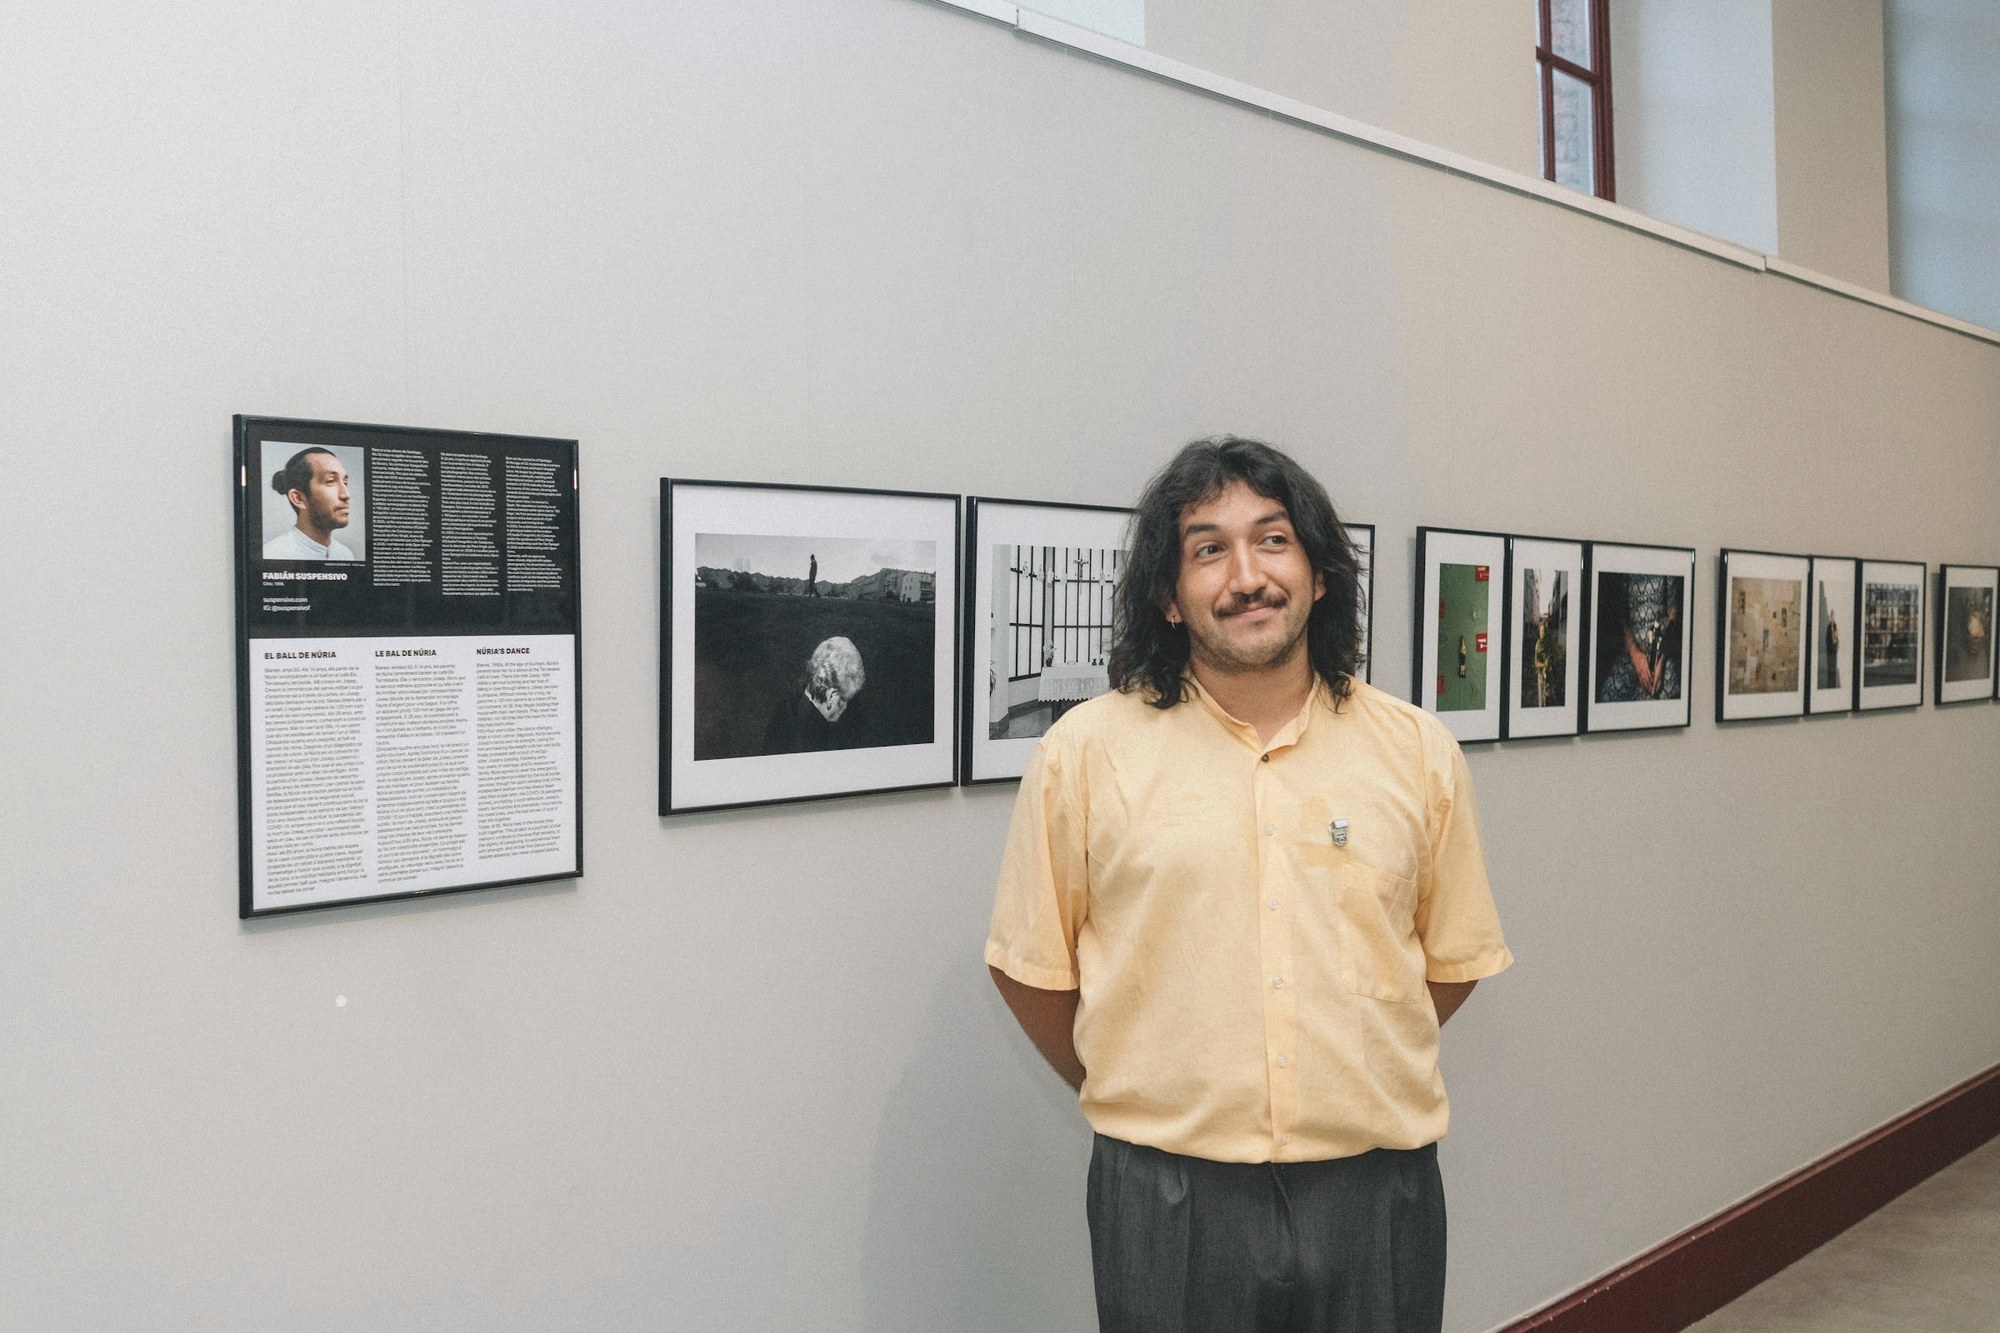
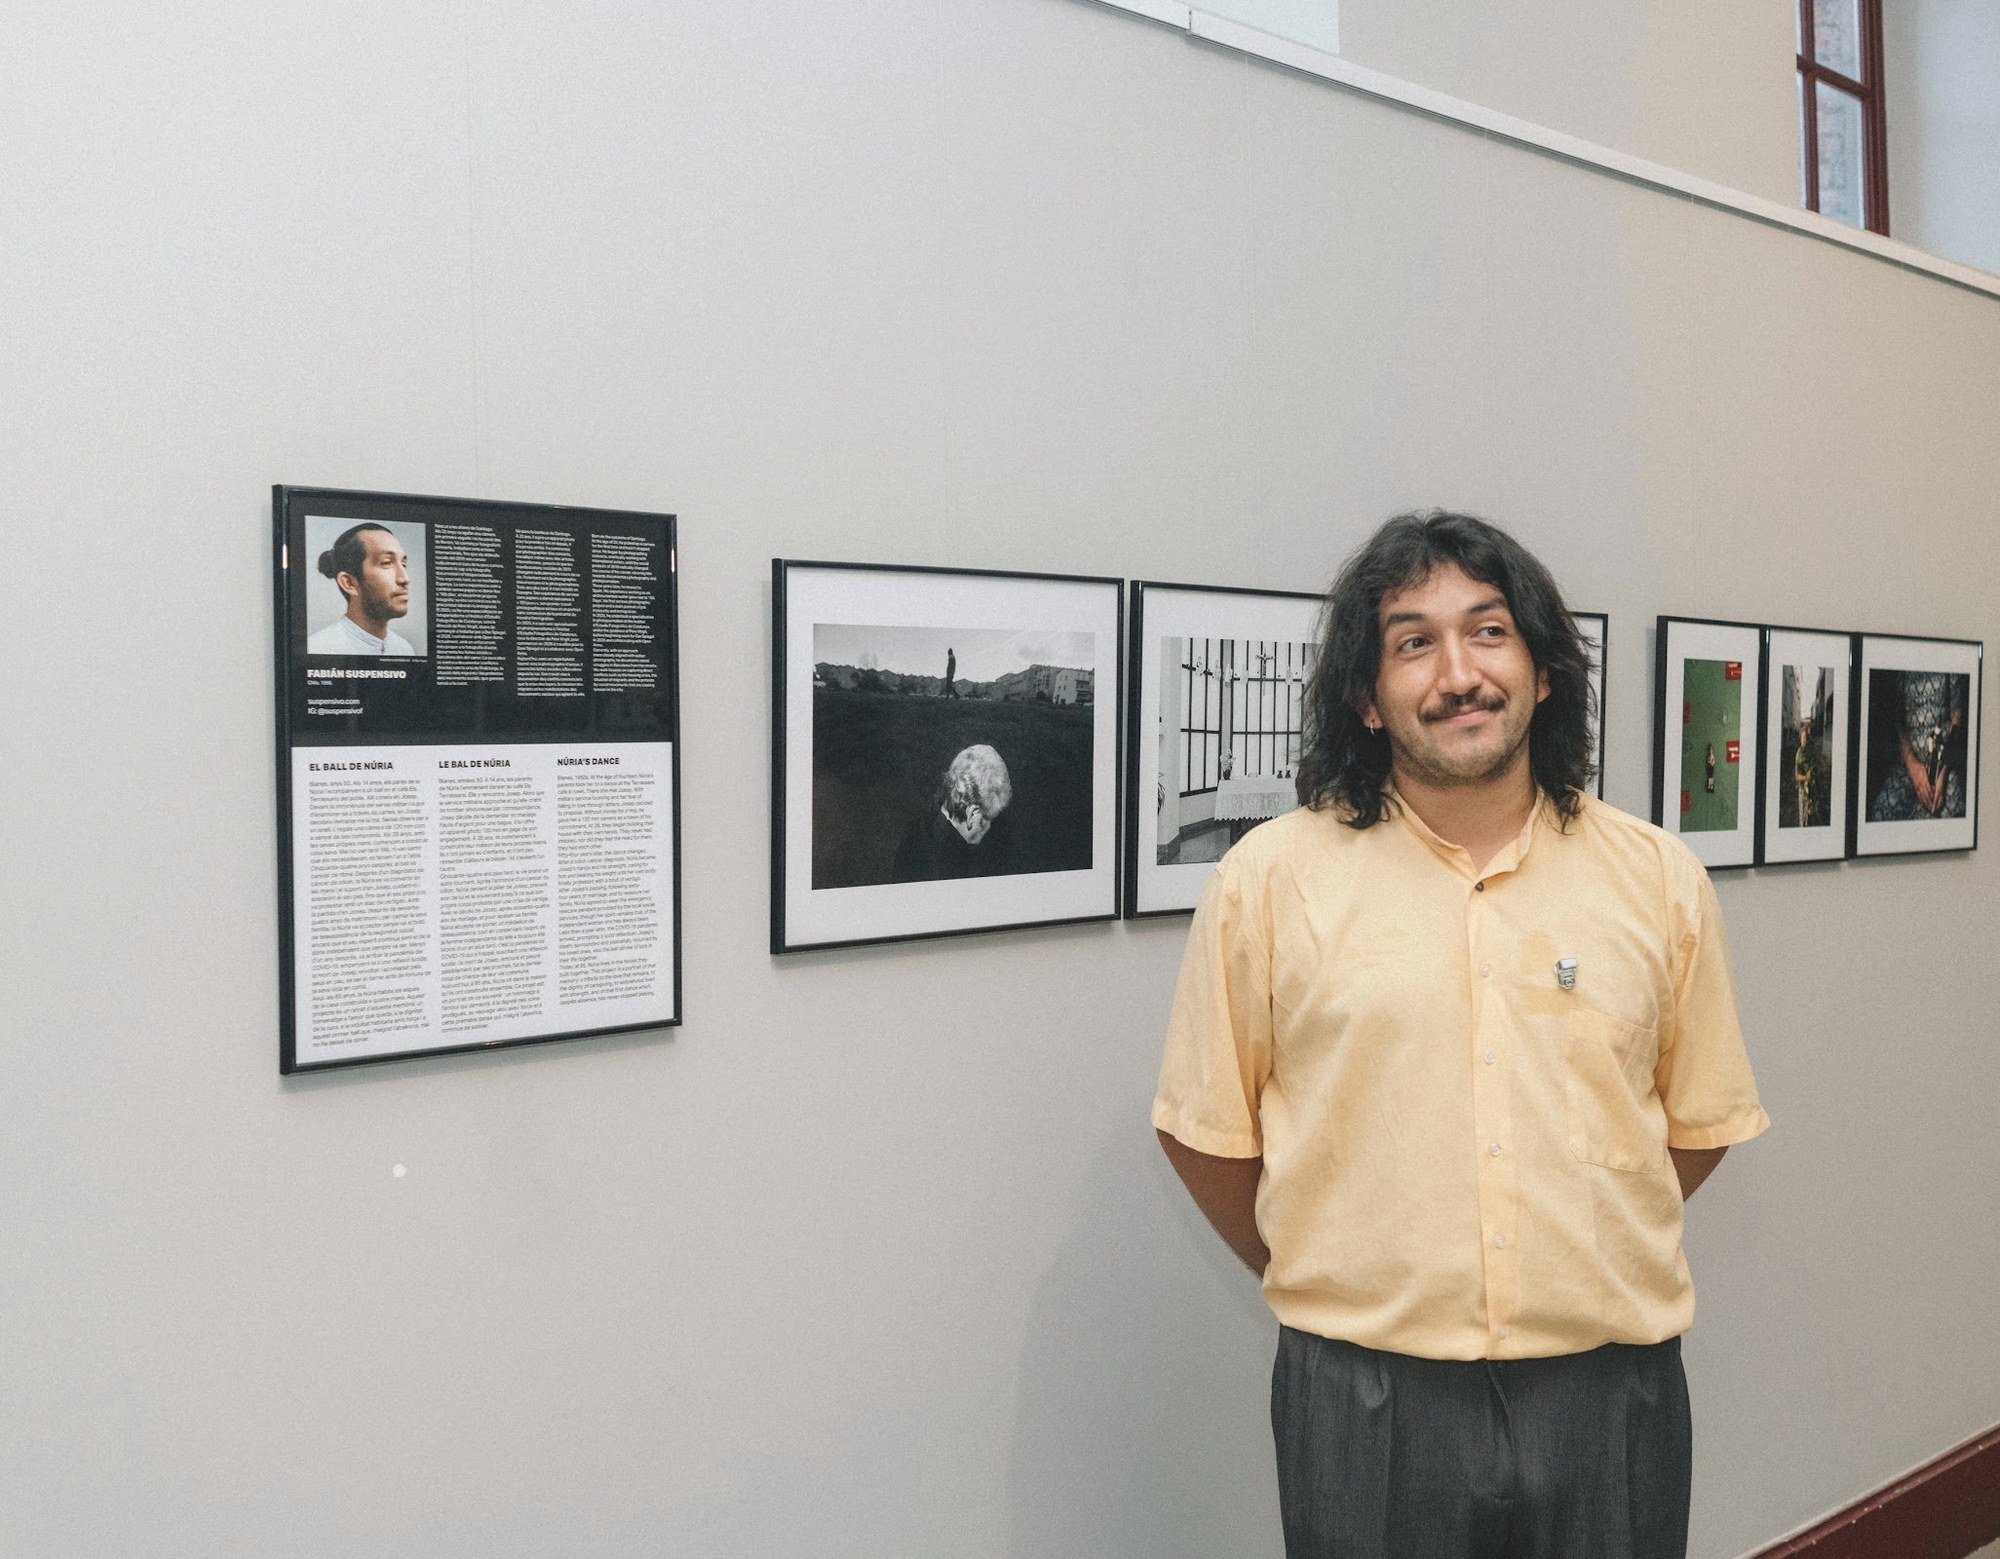
recorta las dos fotos donde entraba medio cuadro por el borde

diff --git a/src/data/galeria.ts b/src/data/galeria.ts
@@ -41,8 +41,8 @@ export const series: Serie[] = [
       { src: '/fotos/ball-de-nuria-expo-01.jpg', w: 2000, h: 1333, expo: true },
       { src: '/fotos/ball-de-nuria-expo-02.jpg', w: 2000, h: 1333, expo: true },
       { src: '/fotos/ball-de-nuria-expo-03.jpg', w: 1500, h: 2000, expo: true },
-      { src: '/fotos/ball-de-nuria-expo-04.jpg', w: 1350, h: 2000, expo: true },
-      { src: '/fotos/ball-de-nuria-expo-05.jpg', w: 2000, h: 1333, expo: true },
+      { src: '/fotos/ball-de-nuria-expo-04.jpg', w: 1303, h: 2000, expo: true },
+      { src: '/fotos/ball-de-nuria-expo-05.jpg', w: 2000, h: 1559, expo: true },
     ],
   },
   {
